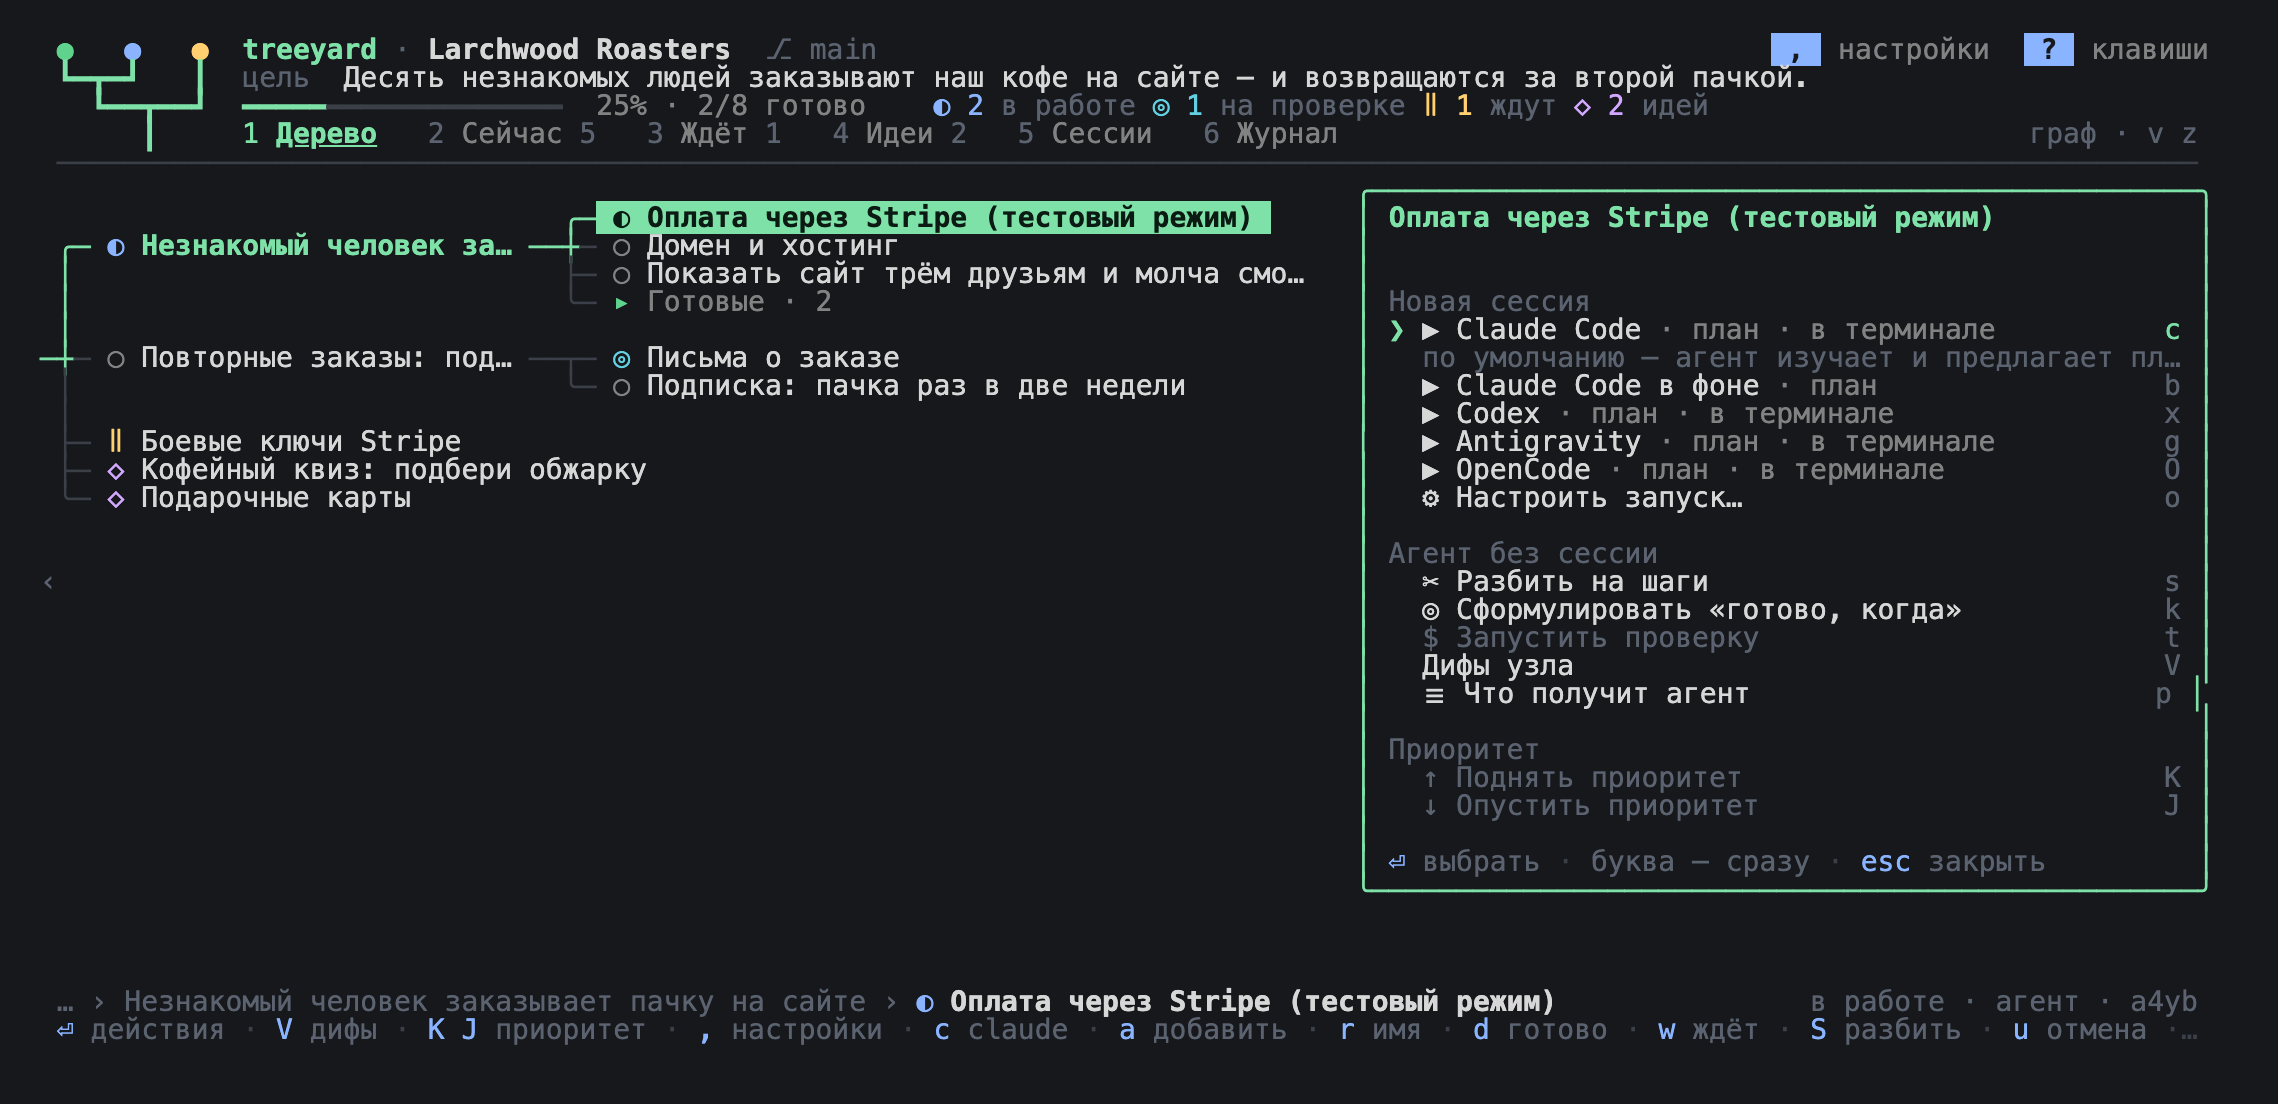
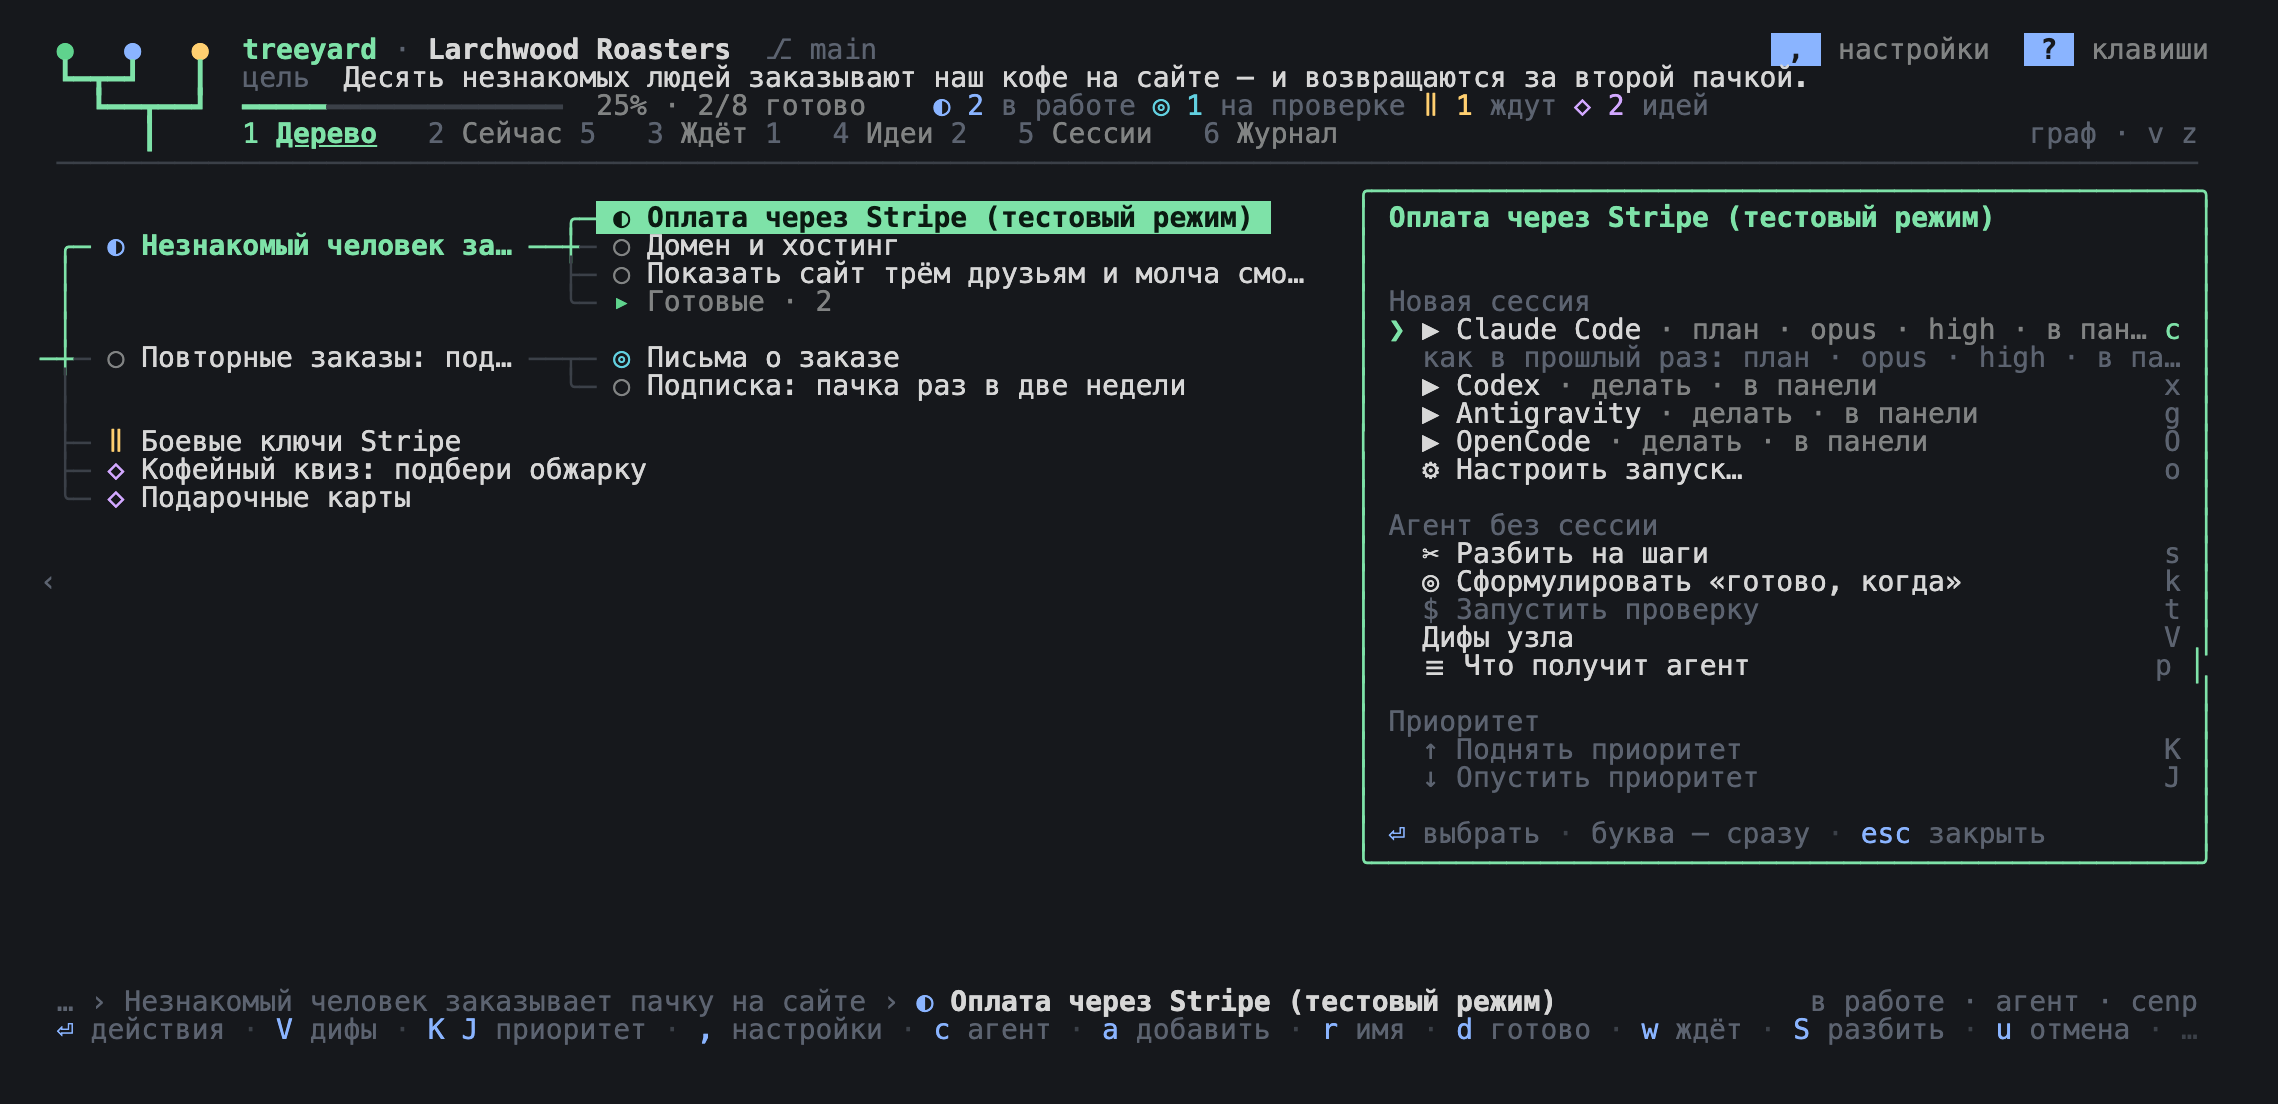
chore(screenshots): stage agents at work for the README pictures
npm run screenshots now also shoots the agent menu on c, three agents at
once with a pane next to the tree, the coordinator's card with its letters
and a node's worktree. scripts/demo/stage-brainyard.ts stands in for
Brainyard through a resolve hook, so the TUI sees staged sessions, panes
and screens; letters go through the real mailbox and journals. The menus
open with a remembered launch, the project sits under a home of its own
so paths read ~/Projects/…

diff --git a/scripts/readme-screenshots.ts b/scripts/readme-screenshots.ts
@@ -4,15 +4,33 @@
  * by treeyard itself, moved along a little and shot in English and in Russian.
  * A new key or label in the TUI — run it, and the README shows it.
  *
- *   npm run screenshots   → docs/screenshot{,-menu}{,.ru}.png
+ *   npm run screenshots   → docs/screenshot{,-menu,-agent,-agents,-mail,-worktree}{,.ru}.png
  *
  * The folder and its TREEYARD_HOME are temporary: nothing touches
- * ~/.treeyard, a real tree or tmux.
+ * ~/.treeyard, a real tree or tmux. The agents at work are staged too:
+ * scripts/demo/stage-brainyard.ts stands in for Brainyard, so the TUI sees
+ * sessions and panes that no CLI runs.
  */
 import { execFileSync } from 'node:child_process';
 import { mkdirSync, mkdtempSync, readFileSync, realpathSync, rmSync, writeFileSync } from 'node:fs';
+import { registerHooks } from 'node:module';
 import { tmpdir } from 'node:os';
 import { join, resolve } from 'node:path';
+
+import type { Delivery } from '../src/model/mailbox.js';
+import type { Stage } from './demo/stage-brainyard.js';
+
+// Before the TUI loads: its Brainyard is the staged one; the stage itself imports the real one.
+const STAGE = new URL('./demo/stage-brainyard.ts', import.meta.url).href;
+registerHooks({
+  resolve(specifier, context, next) {
+    const fromStage = context.parentURL?.split('?')[0] === STAGE;
+    return next(specifier === '@antondanv/brainyard' && !fromStage ? STAGE : specifier, context);
+  },
+});
+const setStage = (stage: Stage) => {
+  (globalThis as { treeyardStage?: Stage }).treeyardStage = stage;
+};
 
 // Before ink and its colours load: the README shows a truecolor terminal.
 process.env.FORCE_COLOR = '3';
@@ -46,8 +64,97 @@ const MOVES: [number[], string][] = [
 const SELECTED = [0, 2];
 const EXPANDED = [[0], [1]];
 
+/** Where the agents work in the staged pictures: positions in tree.json. */
+const AGENTS = {
+  /** The coordinator: hands the branch's nodes to sessions and writes to them, from a terminal of its own. */
+  coordinator: [1],
+  /** Claude Code in a pane, in the node's own worktree. */
+  payments: [0, 2],
+  /** Codex in a pane, waiting for a person's yes. */
+  subscription: [1, 0],
+  /** Claude Code in the background, writing back to the coordinator. */
+  emails: [1, 1],
+};
+
+/** Session ids as the CLIs make them: the TUI shows their first eight characters. */
+const SESSION = {
+  coordinator: '5e1c9a07-2b4d-4f8e-9c31-7a6d0b2e8f45',
+  payments: 'a3f9c2e1-5b7d-4c1e-9a2f-6d8b0e4c7a15',
+  subscription: '019a7c3e-4d21-7b90-8e5f-2c6a1d9b3e70',
+  emails: 'c7d24b18-9e3a-4f60-b1d5-8a2e7c0f6b93',
+};
+
+const SCRIPT: Record<
+  Lang,
+  {
+    asks: string;
+    toSubscription: string;
+    toEmails: string;
+    fromEmails: string;
+    askSubscription: string;
+    screen: string[];
+  }
+> = {
+  en: {
+    asks: 'permission to run stripe listen',
+    toSubscription:
+      "Charge through Stripe Billing, no scheduler of our own. Order emails are another session's node: leave the templates alone.",
+    toEmails: 'Subscription sends invoice.paid: add a “charged for your subscription” email on that event too.',
+    fromEmails: 'Added the subscription-charged template; the invoice.paid test passes.',
+    askSubscription: 'Once it works, tell me which Stripe events you listen to.',
+    screen: [
+      '> You are working on the node «Checkout with Stripe (test mode)»',
+      '',
+      '⏺ Read the node: done when a test card payment shows up as an order.',
+      '',
+      '⏺ Plan: a Checkout Session on the server; the webhook',
+      '  checkout.session.completed creates the order.',
+      '',
+      '⏺ Update(server/payments.ts)',
+      '  ⎿  +58 −3',
+      '',
+      '⏺ Bash(npm test -- payments)',
+      '  ⎿  ✓ test card 4242 → order #1042 (3 tests)',
+      '',
+      '⏺ Now the “Thank you” page after the payment.',
+    ],
+  },
+  ru: {
+    asks: 'разрешение на stripe listen',
+    toSubscription:
+      'Списания делай через Stripe Billing, свой планировщик не нужен. Письма о заказе — узел другой сессии, шаблоны не трогай.',
+    toEmails: 'Подписка шлёт invoice.paid — добавь на это событие письмо «списали за подписку».',
+    fromEmails: 'Добавил шаблон subscription-charged, тест на invoice.paid проходит.',
+    askSubscription: 'Как заработает — напиши, какие события Stripe слушаешь.',
+    screen: [
+      '> Ты работаешь над узлом «Оплата через Stripe (тестовый режим)»',
+      '',
+      '⏺ Прочитал узел: готово, когда оплата тестовой картой появляется',
+      '  как заказ.',
+      '',
+      '⏺ План: Checkout Session на сервере, вебхук',
+      '  checkout.session.completed создаёт заказ.',
+      '',
+      '⏺ Update(server/payments.ts)',
+      '  ⎿  +58 −3',
+      '',
+      '⏺ Bash(npm test -- payments)',
+      '  ⎿  ✓ тестовая карта 4242 → заказ #1042 (3 теста)',
+      '',
+      '⏺ Теперь страница «Спасибо» после оплаты.',
+    ],
+  },
+};
+
 const { snapshot } = await import('../src/tui/snapshot.js');
 const { framePng } = await import('./screenshot.js');
+const { attachSession, logToNode } = await import('../src/model/ops.js');
+const { loadTree } = await import('../src/model/store.js');
+const { letterFrom, letterTo } = await import('../src/model/mail.js');
+const { addLetter, markDelivered, markHeld } = await import('../src/model/mailbox.js');
+const { rememberLaunch } = await import('../src/launch-memory.js');
+const { setLang } = await import('../src/i18n/i18n.js');
+const { worktreeFor } = await import('../src/worktree.js');
 
 const root = mkdtempSync(join(realpathSync(tmpdir()), 'treeyard-readme-'));
 try {
@@ -58,7 +165,9 @@ try {
 
 async function shoot(lang: Lang): Promise<void> {
   const home = join(root, lang, 'home');
-  const dir = join(root, lang, 'larchwood-roasters');
+  // A home of the pictures' own: the TUI shortens paths under it to ~/Projects/….
+  const user = join(root, lang);
+  const dir = join(user, 'Projects', 'larchwood-roasters');
   mkdirSync(home, { recursive: true });
   mkdirSync(dir, { recursive: true });
   const settings = { lang, theme: 'dark', confirm: true, animation: false, marquee: false } as const;
@@ -69,7 +178,7 @@ async function shoot(lang: Lang): Promise<void> {
     if (!/^(TREEYARD_|BRAINYARD_|TMUX|CLAUDE)/.test(key)) env[key] = value;
   }
   // A person at the keyboard: only a person may mark a node done.
-  Object.assign(env, { TREEYARD_HOME: home, TREEYARD_AS: 'you' });
+  Object.assign(env, { TREEYARD_HOME: home, TREEYARD_AS: lang === 'ru' ? 'ты' : 'you' });
   const git = (...args: string[]) => execFileSync('git', args, { cwd: dir, env, stdio: 'pipe' });
   const treeyard = (...args: string[]) =>
     execFileSync(tsx, ['--tsconfig', join(repo, 'tsconfig.json'), join(repo, 'src/cli/main.ts'), ...args], {
@@ -108,13 +217,130 @@ async function shoot(lang: Lang): Promise<void> {
   git('commit', '-q', '-m', 'Plant the goal tree');
 
   process.env.TREEYARD_HOME = home;
-  const ui = { selected: idAt(SELECTED), expanded: EXPANDED.map(idAt) };
-  const take = async (name: string, rows: number, keys: string[] = []) => {
-    const frame = await snapshot(dir, { columns: COLUMNS, rows, ui, keys, settings, settle: 200 });
+  const realHome = process.env.HOME;
+  // The staged letters are written in the picture's language.
+  setLang(lang);
+  const take = async (name: string, rows: number, keys: string[] = [], selected = SELECTED, live = false) => {
+    const ui = { selected: idAt(selected), expanded: EXPANDED.map(idAt) };
+    // Live: the TUI asks the staged Brainyard for sessions and panes; no quiet pane is put to sleep.
+    const frameSettings = live ? { ...settings, sleepAfter: 0, maxPanes: 0 } : settings;
+    // Only the frame sees the pictures' home: Chrome needs the real one.
+    process.env.HOME = user;
+    const frame = await snapshot(dir, { columns: COLUMNS, rows, ui, keys, settings: frameSettings, settle: 400, live });
+    process.env.HOME = realHome;
     console.log(framePng(frame, join(repo, 'docs', `${name}${SUFFIX[lang]}.png`), COLUMNS, rows));
   };
   await take('screenshot', 26);
-  await take('screenshot-menu', 36, ['\r']);
+  // The menus open with the last launch on top: Claude Code planning in a pane, in the node's worktree.
+  rememberLaunch(dir, { brain: 'claude', start: 'plan', model: 'opus', effort: 'high', pane: true, worktree: true });
+  await take('screenshot-menu', 36, ['\r'], SELECTED, true);
+  await take('screenshot-agent', 30, ['c'], SELECTED, true);
+
+  stageAgents(lang, dir, idAt, treeyard);
+  await take('screenshot-agents', 34, [], AGENTS.payments, true);
+  await take('screenshot-mail', 34, ['i'], AGENTS.coordinator, true);
+  await take('screenshot-worktree', 34, ['p', 'i'], AGENTS.payments, true);
+  setStage({ sessions: [], panes: [], screens: {} });
+}
+
+/**
+ * Several agents at once: a coordinator on a branch, Claude Code in a pane in
+ * its node's worktree, Codex waiting for you, Claude Code in the background —
+ * and the letters between them in the journals.
+ */
+function stageAgents(
+  lang: Lang,
+  dir: string,
+  idAt: (path: number[]) => string,
+  treeyard: (...args: string[]) => string,
+): void {
+  const script = SCRIPT[lang];
+  const id = (path: number[]) => idAt(path);
+  treeyard('set', id(AGENTS.coordinator), id(AGENTS.subscription), id(AGENTS.emails), 'status=active');
+  treeyard('worktree', 'add', id(AGENTS.payments));
+  const worktree = worktreeFor(dir, id(AGENTS.payments))?.path;
+  if (!worktree) throw new Error(`no worktree for ${id(AGENTS.payments)}`);
+
+  const tree = loadTree(dir);
+  const node = (path: number[]) => {
+    const found = tree.nodes.get(id(path));
+    if (!found) throw new Error(`no node ${id(path)}`);
+    return found;
+  };
+  const started = new Date(Date.now() - 25 * 60_000).toISOString();
+  // The coordinator is the session the person talks to, in a terminal of their own.
+  attachSession(tree, id(AGENTS.coordinator), { brain: 'claude', id: SESSION.coordinator, mode: 'terminal', started });
+  attachSession(tree, id(AGENTS.payments), {
+    brain: 'claude',
+    id: SESSION.payments,
+    mode: 'pane',
+    pane: 'claude-payments',
+    dir: worktree,
+    started,
+  });
+  attachSession(tree, id(AGENTS.subscription), {
+    brain: 'codex',
+    id: SESSION.subscription,
+    mode: 'pane',
+    pane: 'codex-subscription',
+    started,
+  });
+  attachSession(tree, id(AGENTS.emails), { brain: 'claude', id: SESSION.emails, mode: 'background', started });
+
+  // As `treeyard send` from one node's session to another: the mailbox, then a line in both journals.
+  const send = (from: number[], to: number[], text: string, how?: Delivery) => {
+    const item = addLetter(dir, { to: id(to), from: id(from), who: 'claude', text });
+    logToNode(tree, id(to), letterFrom(node(from), text, item.n), 'claude');
+    logToNode(tree, id(from), letterTo(node(to), text, item.n), 'claude');
+    if (how) markDelivered(dir, [item.n], how);
+    else markHeld(dir, [item.n], 'waiting', script.asks);
+  };
+  send(AGENTS.coordinator, AGENTS.subscription, script.toSubscription, 'typed');
+  // Handed over between two tool calls: the session was at work.
+  send(AGENTS.coordinator, AGENTS.emails, script.toEmails, 'turn');
+  send(AGENTS.emails, AGENTS.coordinator, script.fromEmails, 'typed');
+  // Waits while Codex asks the person for a permission.
+  send(AGENTS.coordinator, AGENTS.subscription, script.askSubscription);
+
+  const pane = (name: string, brain: 'claude' | 'codex', sessionId: string, cwd: string) => ({
+    pane: name,
+    brain,
+    sessionId,
+    cwd,
+    attached: false,
+    width: 72,
+    height: 28,
+    startedAt: started,
+    activityAt: new Date().toISOString(),
+  });
+  const session = (brain: 'claude' | 'codex', sessionId: string, cwd: string, live: SessionLive) => ({
+    brain,
+    id: sessionId,
+    cwd,
+    interactive: true,
+    startedAt: started,
+    updatedAt: new Date().toISOString(),
+    live,
+  });
+  setStage({
+    sessions: [
+      session('claude', SESSION.coordinator, dir, { kind: 'interactive', status: 'idle' }),
+      session('claude', SESSION.payments, worktree, { kind: 'interactive', status: 'busy' }),
+      session('codex', SESSION.subscription, dir, { kind: 'interactive', status: 'waiting', waitingFor: script.asks }),
+      { ...session('claude', SESSION.emails, dir, { kind: 'background', status: 'busy' }), background: true },
+    ],
+    panes: [
+      pane('claude-payments', 'claude', SESSION.payments, worktree),
+      pane('codex-subscription', 'codex', SESSION.subscription, dir),
+    ],
+    screens: { 'claude-payments': script.screen },
+  });
+}
+
+interface SessionLive {
+  kind: string;
+  status: string;
+  waitingFor?: string;
 }
 
 interface ShownNode {

diff --git a/scripts/demo/stage-brainyard.ts b/scripts/demo/stage-brainyard.ts
@@ -1,0 +1,45 @@
+/**
+ * Brainyard for the README's pictures: scripts/readme-screenshots.ts loads this
+ * module in place of @antondanv/brainyard, so the TUI sees staged sessions,
+ * panes and screens instead of real CLIs and tmux. Everything else is the real
+ * Brainyard. Nothing here starts, stops or types into anything.
+ */
+import type { PaneInfo, PaneScreen, SessionInfo } from '@antondanv/brainyard';
+
+export * from '@antondanv/brainyard';
+
+export interface Stage {
+  sessions: SessionInfo[];
+  panes: PaneInfo[];
+  /** Pane name → its screen, one string per row (ANSI colours allowed). */
+  screens: Record<string, string[]>;
+}
+
+const empty: Stage = { sessions: [], panes: [], screens: {} };
+const stage = (): Stage => (globalThis as { treeyardStage?: Stage }).treeyardStage ?? empty;
+
+export const panesAvailable = () => true;
+export const liveSessions = async () => stage().sessions;
+export const sessions = async () => stage().sessions;
+export const listPanes = async () => stage().panes;
+export const paneMemory = async () => new Map(stage().panes.map((pane) => [pane.pane, 240 * 1024 * 1024]));
+export const resizePane = async () => true;
+export const sendToPane = async () => undefined;
+export const closePane = async () => true;
+export const stopSession = async () => undefined;
+
+export async function capturePane(pane: string): Promise<PaneScreen> {
+  const info = stage().panes.find((each) => each.pane === pane);
+  const lines = stage().screens[pane] ?? [];
+  return {
+    lines,
+    width: info?.width ?? 80,
+    height: info?.height ?? lines.length,
+    cursor: { x: 0, y: 0, visible: false },
+    historySize: 0,
+    scrollOffset: 0,
+    mouseTracking: false,
+    mouseSgr: false,
+    alternate: false,
+  };
+}
